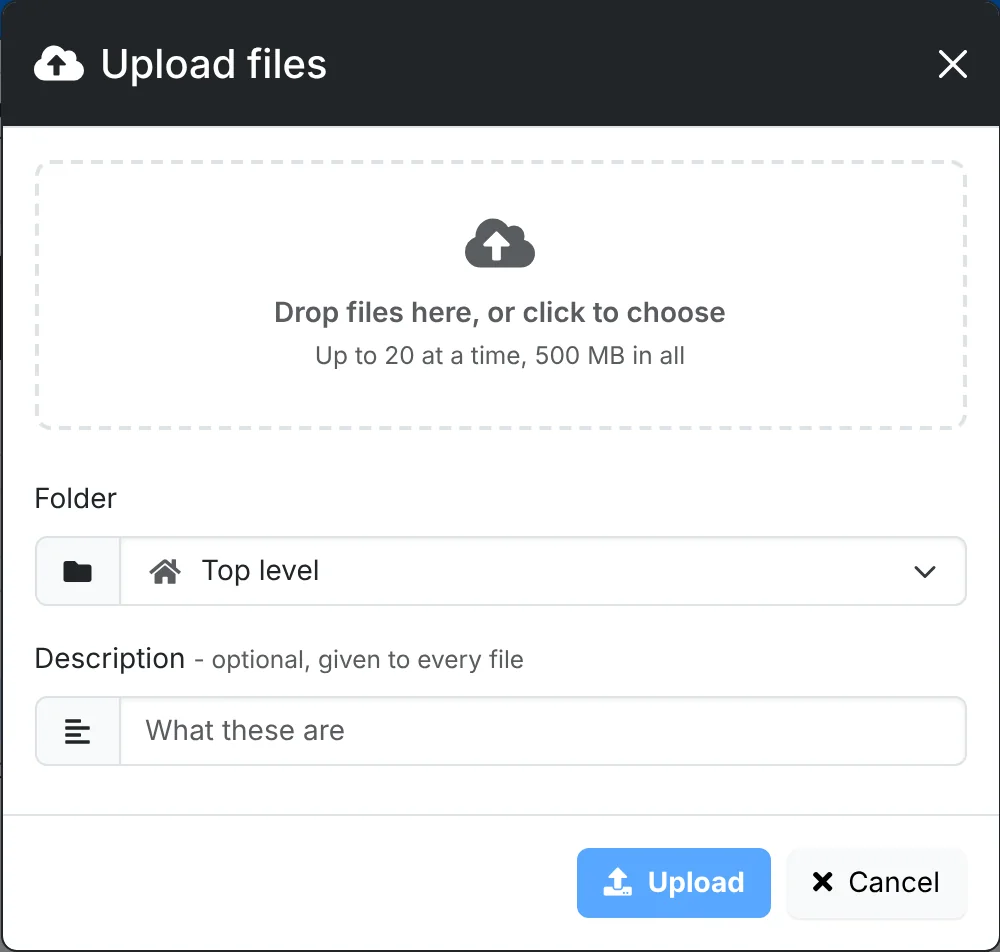
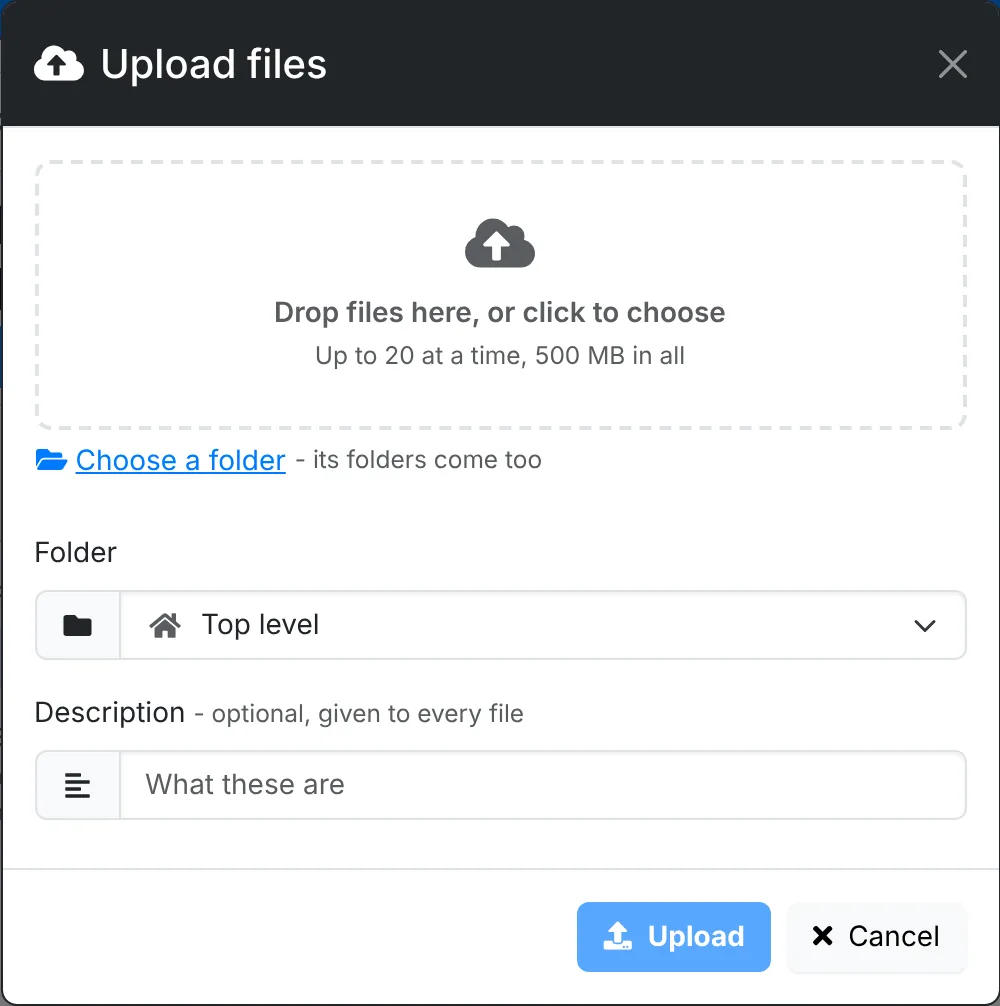
Docs: files and documents covers renaming from the list, downloading as a zip, uploading a folder, editing on its own page, copying a document, favorites and what changed between versions; client overview and Knowledge Base mention favorite documents and the contents list

diff --git a/content/documentation/files-and-documents.md b/content/documentation/files-and-documents.md
@@ -19,11 +19,17 @@ where: Clients > a client > Files
 - The list and grid buttons switch views. The grid shows real previews: image thumbnails, the first page of a PDF, the start of a document. Click one to open the previewer, and use the arrow keys to move between files.
 - Markers show which items are shared by link and which are visible in the client portal.
 
-To upload, drag files from your computer onto the list - they go into the folder you're in - or onto a folder on the left to put them there. Or click **Upload**.
+To upload, drag files or folders from your computer onto the list - they go into the folder you're in - or onto a folder on the left to put them there. Or click **Upload**.
 
 ![A client's Files in list view](doc-files.webp "List view: each item's type, size, when it changed and what it's linked to")
 
-Tick items and use **Bulk Action** to move, tag, archive, restore or delete them together.
+Tick items and use **Bulk Action** to move, tag, archive, restore or delete them together, or **Download as zip** to get them in one go.
+
+To rename something in the list view, point at it and click the pencil beside its name. Type the new name and press <kbd>Enter</kbd>, or <kbd>Esc</kbd> to leave it. For a file, the name is picked out without its extension, so you can type straight over it.
+
+### Download a folder {#zip}
+
+The **⋯** beside the folder's path has **Download as zip**: everything in the folder and the folders under it, in the same folders. At the top level it's **Download everything as zip**. Documents go in as web pages, which open in any browser. Archived items are left out, and one zip can hold up to 2 GB.
 
 ## Move things between folders {#move}
 
@@ -47,6 +53,12 @@ Each move goes in the audit log. On a phone or tablet, use **Move** in an item's
 
 ![The Upload window](doc-upload.webp "Upload: drop files in, pick the folder, and upload")
 
+### Upload a folder {#upload-folder}
+
+To upload a whole folder with the folders inside it, click **Choose a folder** in the **Upload** window, or drop the folder onto the box or onto the list. The folders are made inside the folder you pick, each file goes into its own, and files go into folders that are already there when the names match. Files your computer keeps beside your own, such as `.DS_Store` and `Thumbs.db`, are left out.
+
+A folder goes up 20 files at a time, so it can be bigger than an upload of files - up to 1,000 files and 2 GB. The window counts them as they go, and says at the end how many went up and which were skipped.
+
 Click a file to open its quick look: a preview, its folder, who uploaded it and when, whether it's shared, and what it's linked to.
 
 ## Write a document
@@ -56,6 +68,8 @@ Click a file to open its quick look: a preview, its folder, who uploaded it and 
 3. Click **Create**.
 
 With AI set up, **Draft it with AI** writes a first draft from what you say it's for, using what ITFlow knows about the client. See [Using AI](/getting-started/ai).
+
+**Edit**, on the document's page, opens it on a page of its own: the name, summary, tags and client portal switch along the top, and the editor filling the rest of the window. Long documents scroll inside the editor, so its toolbar stays in view. **Save** keeps what it said before as a version and goes back to the document. **Cancel** goes back without saving, and leaving with changes not saved asks first.
 
 ### Start from a template
 
@@ -74,11 +88,26 @@ When a template is required for the client - every managed client should have a 
 
 ![A document's page with its contents and the records linked to it](doc-document.webp "A document: what it says, and what it's linked to")
 
-Along the top: **Edit**, **Share**, **PDF** and print, and the **⋮** menu with **Rename**, **Move**, **Link**, **Show in client portal** (or **Hide from client portal**), **Copy to Knowledge Base**, **Archive** and **Delete**. **Copy to Knowledge Base** makes a draft [Knowledge Base](/service-desk/knowledge-base) article from it, for every client.
+Along the top: **Edit**, **Share**, **PDF** and print, and the **⋮** menu with **Rename**, **Move**, **Copy**, **Link**, **Favorite**, **Show in client portal** (or **Hide from client portal**), **Copy to Knowledge Base**, **Archive** and **Delete**. **Copy to Knowledge Base** makes a draft [Knowledge Base](/service-desk/knowledge-base) article from it, for every client.
 
+- **Contents** - a document with three headings or more has a list of them beside it. Click one to jump to it.
 - **Linked** lists the assets, contacts, locations, licenses, vendors, services and files the document is about. Use **Link** to add more. A document linked to an asset shows on the asset's page, and so on.
-- **Versions** keeps every earlier version. View one, restore it (the current one is kept as a version too), or delete it.
+- **Versions** keeps every earlier version. View one, restore it (the current one is kept as a version too), or delete it. See [What an edit changed](#changes).
 - **Show in client portal** lets the client's technical contacts read it in the portal - for how-tos written for them.
+
+### Copy a document {#copy}
+
+**Copy** makes a copy for the same client - give it a new name and pick its folder - or for another client, the same runbook for a new site, say. A copy for another client goes in the top level of their files. The copy has the content, summary, tags and pictures, and is reviewed as often as the original. It isn't in the client portal or linked to anything, and starts with no versions.
+
+### Favorites {#favorite}
+
+**Favorite** puts a document on the client's [overview](/clients/overview), under **Favorites**, with their favorite assets, licenses and logins - for the network overview or the runbook you open on every call. A star marks it on its page and in **Files**. **Unfavorite** takes it off.
+
+### What an edit changed {#changes}
+
+The arrows beside a version in **Versions** - and beside **Now**, for the last edit - show what that edit changed, against the version before it. Lines taken out are red and lines put in are green. In a line that changed, the words that changed are marked. Lines that stayed the same are folded away, apart from a couple either side of each change. A change of name shows at the top. Formatting changes alone, such as bold or a colour, aren't shown, and a picture shows as **[Picture]**. **What changed** in a version's window opens the same view.
+
+![What changed in an edit: a line taken out, a line put in, a line changed with its changed words marked](doc-changes.webp "What changed: taken out in red, put in in green, the changed words marked")
 
 ### Reviews
 

diff --git a/content/service-desk/knowledge-base.md b/content/service-desk/knowledge-base.md
@@ -43,7 +43,7 @@ Tick articles in the list to change several at once: **Set category**, **Publish
 
 ## Read an article
 
-Click an article's title to open it. Along the top are **Edit**, **Publish** for a draft, **Review with AI** when AI is set up, print, **PDF**, and the **⋮** menu with **Make draft**, **Mark reviewed**, **Copy**, **Archive** and **Delete**. Its files are under it. The column on the right shows its category, who can read it, whether it's published, when it's next reviewed and its earlier versions.
+Click an article's title to open it. Along the top are **Edit**, **Publish** for a draft, **Review with AI** when AI is set up, print, **PDF**, and the **⋮** menu with **Make draft**, **Mark reviewed**, **Copy**, **Archive** and **Delete**. Its files are under it. The column on the right shows its category, who can read it, whether it's published, when it's next reviewed and its earlier versions. A long article - three headings or more - also has its **Contents** there, to jump to a section.
 
 ![An article](sd-kb-article.webp "An article: the content, with its category, review and versions beside it")
 

diff --git a/content/clients/overview.md b/content/clients/overview.md
@@ -34,7 +34,7 @@ A row of tiles counting what needs doing for this client. Each one opens a list 
 - **Open tickets** - the client's open tickets, with how many were opened and resolved in the last 30 days.
 - **Quick notes** - anything the next person should know: gate codes, quirks, who to ask for. Type in it and it saves when you click away.
 - **Key contacts** - the client's contacts with a role (primary, important, billing or technical), primary first, with their phone numbers and email.
-- **Favorites** - the assets and logins you've starred for this client, with a login's password and 2FA code a click away.
+- **Favorites** - the documents, assets and logins you've starred for this client, with a login's password and 2FA code a click away. A document is made a favorite from its page - see [Favorites](/documentation/files-and-documents#favorite).
 - **Coming up** - the next 14 days: scheduled tickets, events and recurring work.
 - **Projects** and **Services**, with what needs a look.
 - **Renewals** - domains, certificates, licenses and warranties expired or due in the next 45 days.
